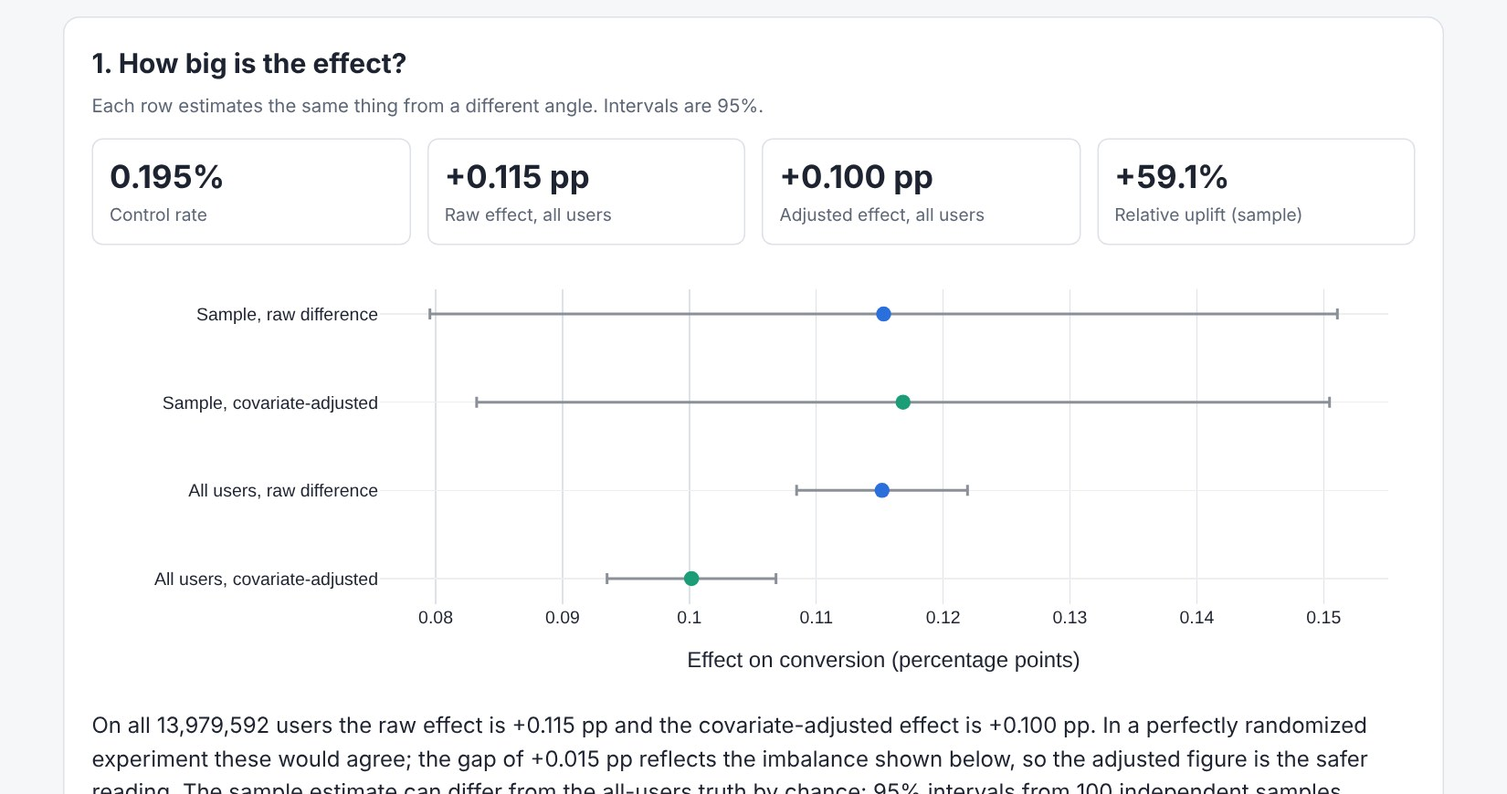
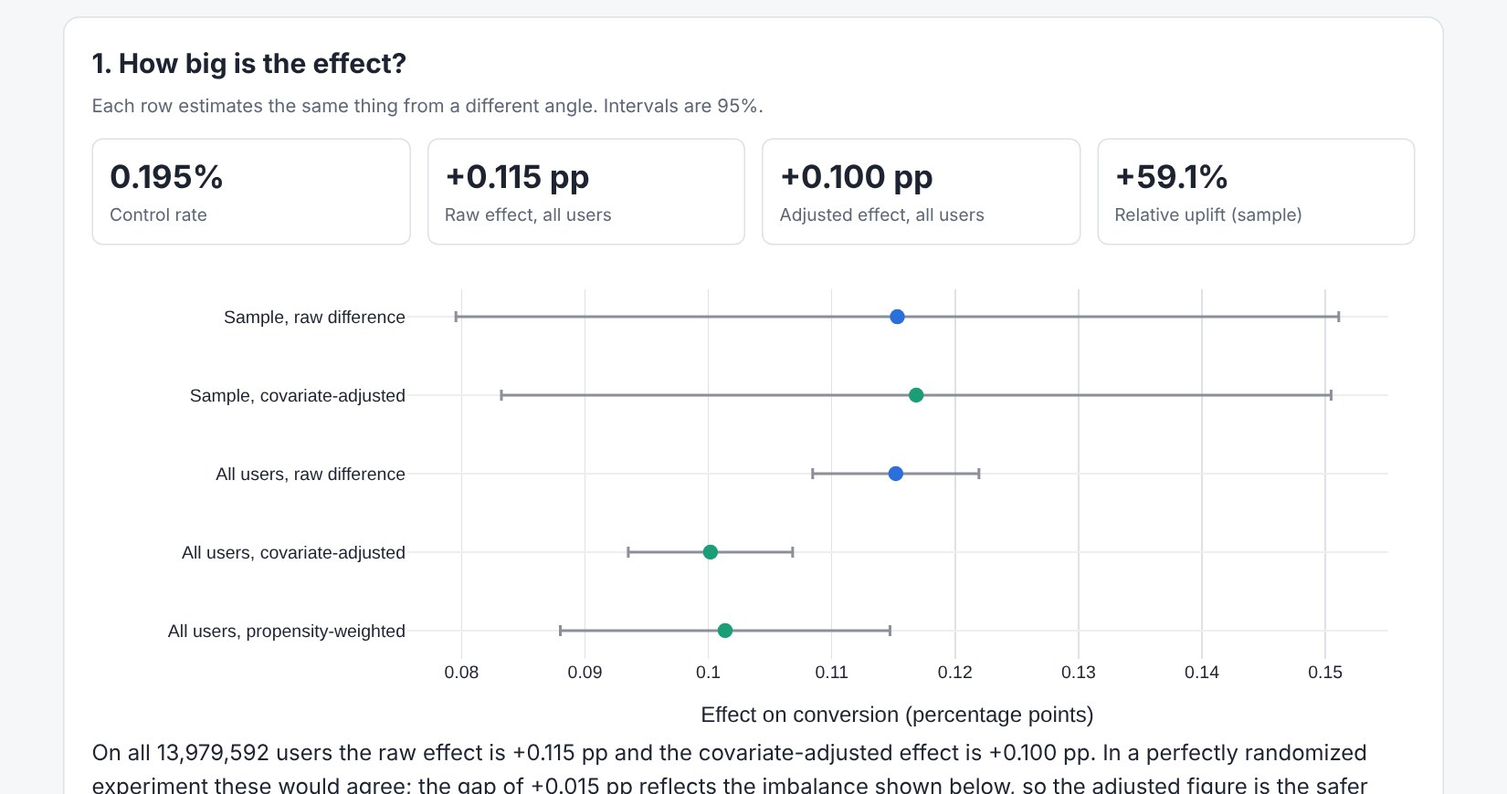
Add cross-fitted propensity weighting as a third estimate and a case study
A different method (inverse-propensity weighting with cross-fitted gradient
boosting) agrees with the regression-adjusted effect on the full data and sits
below the raw effect, corroborating the imbalance finding. Added to the
validation record, the static explorer, and a written case study on checking an
A/B test beyond the sample ratio check.

Claude-Session: https://claude.ai/code/session_01K8YYcUrop5wkFk6trXnpgL

diff --git a/demo/app.js b/demo/app.js
@@ -28,6 +28,7 @@
 
   function renderHeadline() {
     var r = o(), fu = D.full_data.unadjusted[outcome], fa = D.full_data.adjusted[outcome];
+    var fp = (D.full_data.propensity || {})[outcome];
     var z = 1.959964;
     var rows = [
       { name: "Sample, raw difference", v: r.ate.ate, lo: r.ate.ci_low, hi: r.ate.ci_high, c: token("--accent") },
@@ -35,6 +36,7 @@
       { name: "All users, raw difference", v: fu.ate, lo: fu.ci_low, hi: fu.ci_high, c: token("--accent") },
       { name: "All users, covariate-adjusted", v: fa.adjusted_ate, lo: fa.adjusted_ate - z * fa.std_error, hi: fa.adjusted_ate + z * fa.std_error, c: token("--good") }
     ];
+    if (fp) rows.push({ name: "All users, propensity-weighted", v: fp.ipw_ate, lo: fp.ci_low, hi: fp.ci_high, c: token("--good") });
     $("headline-metrics").innerHTML = metric("Control rate", pct(r.control_rate, 3)) +
       metric("Raw effect, all users", pp(fu.ate)) + metric("Adjusted effect, all users", pp(fa.adjusted_ate)) +
       metric("Relative uplift (sample)", (r.relative.relative_uplift >= 0 ? "+" : "") + (r.relative.relative_uplift * 100).toFixed(1) + "%");
@@ -45,11 +47,13 @@
       error_x: { type: "data", symmetric: false, array: rows.map(function (x) { return (x.hi - x.v) * 100; }),
         arrayminus: rows.map(function (x) { return (x.v - x.lo) * 100; }), color: token("--control") }
     }], layout({ xaxis: { title: "Effect on " + outcome + " (percentage points)", gridcolor: token("--line"), zeroline: true, zerolinecolor: token("--control") },
-      yaxis: { autorange: "reversed", automargin: true }, margin: { t: 20, r: 20, b: 50, l: 210 }, height: 300 }), CFG);
+      yaxis: { autorange: "reversed", automargin: true }, margin: { t: 20, r: 20, b: 50, l: 230 }, height: 340 }), CFG);
     var gap = fu.ate - fa.adjusted_ate;
     $("headline-text").textContent = "On all " + num(D.full_rows) + " users the raw effect is " + pp(fu.ate) + " and the covariate-adjusted effect is " +
       pp(fa.adjusted_ate) + ". In a perfectly randomized experiment these would agree; the gap of " + pp(gap) +
-      " reflects the imbalance shown below, so the adjusted figure is the safer reading. The sample estimate can differ from the all-users truth by chance: 95% intervals from 100 independent samples contained the all-users raw effect " +
+      " reflects the imbalance shown below, so the adjusted figure is the safer reading." +
+      (fp ? " A second, independent correction (cross-fitted propensity weighting) gives " + pp(fp.ipw_ate) + ", within " + Math.abs((fp.ipw_ate - fa.adjusted_ate) * 100).toFixed(2) + " pp of the adjusted estimate." : "") +
+      " The sample estimate can differ from the all-users truth by chance: 95% intervals from 100 independent samples contained the all-users raw effect " +
       pct(D.sampling_validation.ci_coverage_of_full_data_ate[outcome], 0) + " of the time.";
   }
 

diff --git a/core/propensity.py b/core/propensity.py
@@ -1,0 +1,79 @@
+from __future__ import annotations
+
+import numpy as np
+import pandas as pd
+from scipy import stats
+from sklearn.ensemble import HistGradientBoostingClassifier
+from sklearn.model_selection import KFold
+
+from core._common import check_alpha, check_outcome, resolve_source
+from core.data import FEATURES
+from core.results import PropensityResult
+
+
+def cross_fitted_propensity(
+    df: pd.DataFrame, features: list[str], n_folds: int, seed: int, max_iter: int
+) -> np.ndarray:
+    scores = np.empty(len(df))
+    x = df[features]
+    t = df["treatment"].to_numpy()
+    folds = KFold(n_splits=n_folds, shuffle=True, random_state=seed)
+    for train_idx, test_idx in folds.split(x):
+        model = HistGradientBoostingClassifier(max_iter=max_iter, random_state=seed)
+        model.fit(x.iloc[train_idx], t[train_idx])
+        scores[test_idx] = model.predict_proba(x.iloc[test_idx])[:, 1]
+    return scores
+
+
+def propensity_weighted_effect(
+    df: pd.DataFrame,
+    outcome: str = "conversion",
+    features: list[str] | None = None,
+    n_folds: int = 2,
+    clip: tuple[float, float] = (0.01, 0.99),
+    alpha: float = 0.05,
+    seed: int = 42,
+    max_iter: int = 100,
+    data_source: str | None = None,
+) -> PropensityResult:
+    check_alpha(alpha)
+    check_outcome(outcome)
+    features = list(features or FEATURES)
+    unknown = [f for f in features if f not in FEATURES]
+    if unknown:
+        raise ValueError(f"Unknown features: {unknown}")
+    if n_folds < 2 or not 0 < clip[0] < clip[1] < 1:
+        raise ValueError("n_folds must be at least 2 and clip must satisfy 0 < low < high < 1")
+    t = df["treatment"].to_numpy(dtype=float)
+    if t.min() == t.max():
+        raise ValueError("Both treatment and control rows are required")
+    y = df[outcome].to_numpy(dtype=float)
+    raw_score = cross_fitted_propensity(df, features, n_folds, seed, max_iter)
+    e = np.clip(raw_score, clip[0], clip[1])
+    w1 = t / e
+    w0 = (1 - t) / (1 - e)
+    mu1 = (w1 * y).sum() / w1.sum()
+    mu0 = (w0 * y).sum() / w0.sum()
+    psi = w1 * (y - mu1) / w1.mean() - w0 * (y - mu0) / w0.mean()
+    se = float(psi.std(ddof=1) / np.sqrt(len(y)))
+    effect = float(mu1 - mu0)
+    z_crit = stats.norm.ppf(1 - alpha / 2)
+    return PropensityResult(
+        outcome=outcome,
+        data_source=resolve_source(df, data_source),
+        n=len(y),
+        n_folds=n_folds,
+        clip_low=clip[0],
+        clip_high=clip[1],
+        share_clipped=float(((raw_score < clip[0]) | (raw_score > clip[1])).mean()),
+        propensity_min=float(raw_score.min()),
+        propensity_max=float(raw_score.max()),
+        ipw_ate=effect,
+        std_error=se,
+        ci_low=effect - z_crit * se,
+        ci_high=effect + z_crit * se,
+        confidence_level=1 - alpha,
+        unadjusted_ate=float(y[t == 1].mean() - y[t == 0].mean()),
+        effective_n_treated=float(w1.sum() ** 2 / (w1**2).sum()),
+        effective_n_control=float(w0.sum() ** 2 / (w0**2).sum()),
+    )

diff --git a/tests/test_extensions.py b/tests/test_extensions.py
@@ -337,3 +337,52 @@ def test_segment_order_puts_a_low_atom_before_the_first_interval():
     assert r.segments[0].is_atom or r.segments[-1].is_atom or any(s.is_atom for s in r.segments)
     middles = [(s.lower + s.upper) / 2 for s in r.segments]
     assert middles == sorted(middles)
+
+
+def confounded_frame(n=60_000, seed=77, effect=0.10):
+    from scipy.special import expit
+
+    rng = np.random.default_rng(seed)
+    x = rng.normal(size=(n, len(FEATURES)))
+    treatment = (rng.random(n) < expit(0.5 + 1.2 * x[:, 0])).astype(int)
+    outcome = rng.random(n) < expit(-1.5 + 0.9 * x[:, 0] + 0.5 * x[:, 1]) * 0.6 + effect * treatment
+    df = frame(treatment, np.zeros(n), outcome.astype(int))
+    df[FEATURES] = x
+    return df
+
+
+def test_propensity_weighting_removes_confounding_that_the_raw_difference_keeps():
+    from core.propensity import propensity_weighted_effect
+
+    df = confounded_frame()
+    r = propensity_weighted_effect(df, "conversion", max_iter=40)
+    assert r.unadjusted_ate > 0.15
+    assert abs(r.ipw_ate - 0.10) < abs(r.unadjusted_ate - 0.10) / 2
+    assert r.ci_low - 0.02 < 0.10 < r.ci_high + 0.02
+    assert r.share_clipped >= 0 and 0 < r.propensity_min < r.propensity_max < 1
+    assert 0 < r.effective_n_treated <= r.n and 0 < r.effective_n_control <= r.n
+    json.loads(r.to_json())
+
+
+def test_propensity_weighting_agrees_with_the_raw_effect_under_real_randomization():
+    from core.propensity import propensity_weighted_effect
+
+    df = generate_synthetic(n=60_000, seed=88, heterogeneous=False)
+    r = propensity_weighted_effect(df, "conversion", max_iter=30)
+    assert abs(r.ipw_ate - r.unadjusted_ate) < 2.5 * r.std_error
+    raw = average_treatment_effect(df, "conversion")
+    assert r.std_error == pytest.approx(raw.std_error, rel=0.25)
+
+
+def test_propensity_weighting_is_deterministic_and_validates_inputs(synthetic_df):
+    from core.propensity import propensity_weighted_effect
+
+    small = synthetic_df.head(8_000)
+    a = propensity_weighted_effect(small, "visit", max_iter=10, seed=3)
+    b = propensity_weighted_effect(small, "visit", max_iter=10, seed=3)
+    assert a.to_dict() == b.to_dict()
+    for kwargs in ({"features": ["nope"]}, {"n_folds": 1}, {"clip": (0.9, 0.1)}):
+        with pytest.raises(ValueError):
+            propensity_weighted_effect(small, "visit", **kwargs)
+    with pytest.raises(ValueError):
+        propensity_weighted_effect(small[small["treatment"] == 1], "visit")

diff --git a/core/validate.py b/core/validate.py
@@ -13,6 +13,7 @@ from core import data as data_module
 from core.cace import complier_effect
 from core.data import DATASET_ROWS, DATASET_SHA256, DTYPES, FEATURES, raw_path, sha256_of
 from core.metrics import ate_from_counts, average_treatment_effect, relative_uplift
+from core.propensity import propensity_weighted_effect
 from core.segments import uplift_by_segment
 from core.srm import sample_ratio_check
 
@@ -67,6 +68,17 @@ def full_adjusted_effects(full: pd.DataFrame, outcomes: tuple[str, ...]) -> dict
     return result
 
 
+PROPENSITY_ROWS = 4_000_000
+
+
+def full_data_propensity(full: pd.DataFrame, outcomes: tuple[str, ...], seed: int = 7) -> dict:
+    rng = np.random.default_rng(seed)
+    rows = min(PROPENSITY_ROWS, len(full))
+    subset = full.iloc[rng.permutation(len(full))[:rows]].reset_index(drop=True)
+    subset.attrs["data_source"] = "criteo"
+    return {o: propensity_weighted_effect(subset, o, seed=seed).to_dict() for o in outcomes}
+
+
 def full_data_checks(full: pd.DataFrame) -> dict:
     treated = full[full["treatment"] == 1]
     control = full[full["treatment"] == 0]
@@ -84,6 +96,7 @@ def full_data_checks(full: pd.DataFrame) -> dict:
     }
     adjusted = full_adjusted_effects(full, ("conversion", "visit"))
     cace = {o: complier_effect(full, o).to_dict() for o in ("conversion", "visit")}
+    propensity = full_data_propensity(full, ("conversion", "visit"))
     return {
         "rows": len(full),
         "card_figures": CARD_FIGURES,
@@ -93,6 +106,7 @@ def full_data_checks(full: pd.DataFrame) -> dict:
         "max_abs_smd": max(abs(v) for v in smd.values()),
         "unadjusted": unadjusted,
         "adjusted": adjusted,
+        "propensity": propensity,
         "cace": cace,
         "relative_uplift": {o: relative_uplift(full, o).to_dict() for o in ("conversion", "visit")},
         "sample_ratio": sample_ratio_check(full).to_dict(),

diff --git a/core/results.py b/core/results.py
@@ -251,3 +251,28 @@ class BalanceResult(Serializable):
     confidence_level: float
     joint_imbalance_detected: bool
     rows: list[BalanceRow] = field(default_factory=list)
+
+
+@dataclass(frozen=True)
+class PropensityResult(Serializable):
+    outcome: str
+    data_source: str
+    n: int
+    n_folds: int
+    clip_low: float
+    clip_high: float
+    share_clipped: float
+    propensity_min: float
+    propensity_max: float
+    ipw_ate: float
+    std_error: float
+    ci_low: float
+    ci_high: float
+    confidence_level: float
+    unadjusted_ate: float
+    effective_n_treated: float
+    effective_n_control: float
+    method: str = (
+        "Hajek inverse-propensity weighting with cross-fitted gradient-boosting propensities; "
+        "linearized standard error that treats the propensity as known (conservative)"
+    )

diff --git a/tests/test_scripts.py b/tests/test_scripts.py
@@ -23,8 +23,11 @@ def test_chunked_full_data_adjustment_matches_the_core_function(small, monkeypat
         assert chunked[outcome]["std_error"] == pytest.approx(direct.std_error, rel=1e-6)
 
 
-def test_full_data_checks_report_structure(small):
+def test_full_data_checks_report_structure(small, monkeypatch):
+    monkeypatch.setattr(validate, "PROPENSITY_ROWS", 6_000)
     checks = validate.full_data_checks(small)
+    assert set(checks["propensity"]) == {"conversion", "visit"}
+    assert checks["propensity"]["visit"]["n"] == 6_000
     assert checks["rows"] == len(small)
     assert checks["control_exposure_rate"] == 0
     assert set(checks["smd"]) == set(f"f{i}" for i in range(12))

diff --git a/core/export_demo.py b/core/export_demo.py
@@ -45,6 +45,7 @@ def build_demo_data(
         out["full_data"] = {
             "unadjusted": {o: full["unadjusted"][o] for o in OUTCOMES},
             "adjusted": full["adjusted"],
+            "propensity": full.get("propensity", {}),
             "cace": full["cace"],
             "max_abs_smd": full["max_abs_smd"],
         }

diff --git a/README.md b/README.md
@@ -10,7 +10,7 @@ Local-first analytics that measures the **incrementality (uplift)** of a marketi
 and a small **local LLM** that explains the results in plain business language without ever computing a number.
 Zero spend: open data, open-source tools, no cloud, no paid APIs.
 
-**[Open the interactive explorer](https://dbechrakis.github.io/uplift-analyzer/)** (static page, aggregate results only) · [Validation record](VALIDATION.md) · [Run the app locally](#quick-start)
+**[Open the interactive explorer](https://dbechrakis.github.io/uplift-analyzer/)** (static page, aggregate results only) · [Case study](docs/case-study-imperfect-randomization.md) · [Validation record](VALIDATION.md) · [Run the app locally](#quick-start)
 
 ![Overview tab](docs/screenshots/overview.png)
 
@@ -18,12 +18,12 @@ Zero spend: open data, open-source tools, no cloud, no paid APIs.
 
 | Question | Evidence | Decision supported | Boundary |
 |---|---|---|---|
-| Did the treatment cause extra visits and conversions, for whom, and is targeting worth it? | On all 13,979,592 users the raw effect is **+0.115 pp on conversion (+59%)** and **+1.03 pp on visits (+27%)**; adjusting for the features gives +0.100 and +0.773 pp. Only **3.6%** of treated users were exposed, so the effect on users who actually saw the ad is **+3.2 pp** (conversion) and **+28.7 pp** (visit). | Where to look for responders, whether blanket targeting pays, and how big the next test must be. In a scenario of 30 per conversion and 0.05 per contact, targeting everyone loses 15.7k per million users while the model's best 10.5% earns 21.7k. | The file pools several tests and was sub-sampled by Criteo, so effects are benchmark values, not forecasts. Assignment is slightly predictable from the features. Profit is a scenario with assumed value and cost. |
+| Did the treatment cause extra visits and conversions, for whom, and is targeting worth it? | On all 13,979,592 users the raw effect is **+0.115 pp on conversion (+59%)** and **+1.03 pp on visits (+27%)**; adjusting for the features gives +0.100 and +0.773 pp, and cross-fitted propensity weighting gives +0.101 and +0.736 pp. Only **3.6%** of treated users were exposed, so the effect on users who actually saw the ad is **+3.2 pp** (conversion) and **+28.7 pp** (visit). | Where to look for responders, whether blanket targeting pays, and how big the next test must be. In a scenario of 30 per conversion and 0.05 per contact, targeting everyone loses 15.7k per million users while the model's best 10.5% earns 21.7k. | The file pools several tests and was sub-sampled by Criteo, so effects are benchmark values, not forecasts. Assignment is slightly predictable from the features. Profit is a scenario with assumed value and cost. |
 
 ## Why this project is different
 
 * **Statistics that check themselves.** Sample ratio check, covariate balance with a classifier-based joint test, regression adjustment, Benjamini-Hochberg across segments, delta-method intervals, bootstrap intervals on Qini. [VALIDATION.md](VALIDATION.md) records each check, including the defects verification found and the fixes.
-* **A real finding about the data.** The treatment is slightly predictable from the features (AUC 0.508, interval excludes 0.5) even though the sample ratio check passes, and the raw and adjusted effects disagree on the full data. The app shows both and says so.
+* **A real finding about the data.** The treatment is slightly predictable from the features (AUC 0.508, interval excludes 0.5) even though the sample ratio check passes, and the raw and adjusted effects disagree on the full data. Two independent corrections (regression adjustment and propensity weighting) agree and both sit below the raw effect. The app shows the raw and adjusted estimates and says so.
 * **Intent-to-treat versus exposed.** Because only 3.6% of treated users saw the ad, the headline effect hides a 28.7 pp effect on visits among exposed users. A naive "exposed versus control" comparison would overstate it (+38.6 pp on the 500k sample); the instrumental-variable estimate does not.
 * **From effect to decision.** Qini curve, four uplift learners compared with paired bootstrap, a profit-maximizing targeting share, and a sample-size and minimum-detectable-effect planner.
 * **The LLM never computes a number.** It chooses one of eleven validated functions through tool calling, the code computes, and the UI always shows the function called and its raw JSON. A number-grounding check flags any figure in an explanation that is not in a tool result.
@@ -38,9 +38,10 @@ All-users figures come from a streaming pass over the full file; model-based res
 | Control to treated rate | 0.194% to 0.309% | 3.82% to 4.85% |
 | Raw effect (95% CI) | +0.115 pp (0.109 to 0.122) | +1.034 pp (1.006 to 1.063) |
 | Covariate-adjusted effect | +0.100 pp | +0.773 pp |
+| Propensity-weighted effect (95% CI, 4M-user subsample) | +0.101 pp (0.088 to 0.115) | +0.736 pp (0.679 to 0.792) |
 | Effect on exposed users (CACE, 95% CI) | +3.20 pp (3.01 to 3.38) | +28.7 pp (27.9 to 29.5) |
 
-**1. The experiment is nearly, not perfectly, randomized.** 85.00% of users are treated, as designed (p = 0.999), and no standardized difference exceeds 0.05. But a classifier predicts treatment from the features with AUC 0.5078 (95% CI 0.5041 to 0.5120), and the adjusted visit effect is 25% smaller than the raw one. Read the adjusted estimate next to the raw one.
+**1. The experiment is nearly, not perfectly, randomized.** 85.00% of users are treated, as designed (p = 0.999), and no standardized difference exceeds 0.05. But a classifier predicts treatment from the features with AUC 0.5078 (95% CI 0.5041 to 0.5120), and the adjusted visit effect is 25% smaller than the raw one. Cross-fitted propensity weighting, a different method, lands within 0.04 pp of the adjusted visit estimate, so the gap is not an artifact of one model. Read the corrected estimates next to the raw one.
 
 **2. Most of the effect lives in a few users.** On seven of the twelve features, 82% to 99% of users share a single default value; where that group shows a significant effect it is small (conversion +0.05 to +0.10 pp). Small groups with non-default values show much larger effects (up to about +5 pp on conversion in groups of a few thousand users, FDR-adjusted).
 
@@ -124,6 +125,7 @@ Open http://127.0.0.1:8501. The containers cannot reach the internet, so fetch t
 |---|---|
 | `average_treatment_effect` | rate difference, 95% CI (unpooled Wald), two-proportion z-test p-value (pooled) |
 | `regression_adjusted_effect` | Lin (2013) interacted OLS with robust errors, and the variance change versus the raw estimate |
+| `propensity_weighted_effect` | cross-fitted gradient-boosting propensities, Hajek inverse-propensity weighting, overlap diagnostics, linearized standard error |
 | `relative_uplift` | lift versus control with delta-method CI on the log risk ratio |
 | `complier_effect` | intent-to-treat, effect on exposed users (Wald IV, delta-method CI), complier and never-taker rates, naive comparison |
 | `covariate_balance` | standardized differences per feature and a classifier AUC with bootstrap CI |

diff --git a/docs/case-study-imperfect-randomization.md b/docs/case-study-imperfect-randomization.md
@@ -1,0 +1,54 @@
+# A randomized experiment that passed the sample ratio check and was still biased
+
+*What 14 million users taught me about checking an A/B test beyond the first check.*
+
+Every A/B testing checklist starts with the sample ratio check (SRM): did the split between treatment and control match the design? I ran it on the Criteo uplift dataset, 13,979,592 users from randomized incrementality tests. The designed treated share is 85%. The observed share was 85.00% (p = 0.999). Textbook clean.
+
+I almost moved on. Instead I asked a second question: **if assignment is truly random, the features should tell you nothing about who got treated.** So I trained a classifier to predict treatment from the 12 user features (on a 500,000-user random sample, scored on held-out users). Under perfect randomization its AUC is 0.5. Mine was 0.508, with a 95% bootstrap interval of 0.504 to 0.512. That is a small number, and it excludes 0.5.
+
+## Why a small imbalance matters
+
+The standard rule of thumb says a standardized mean difference below 0.1 is fine. The largest here was 0.049, so by the rule of thumb the experiment is balanced. But with this many users, even tiny shifts are measurable, and what matters is whether the shifted features also drive the outcome. They do.
+
+On all 14 million users, the raw difference in visit rate between treated and control is **+1.03 percentage points**. After adjusting for the features it is **+0.77**, a quarter smaller. For conversions the raw effect is +0.115 pp and the adjusted one +0.100 pp.
+
+One adjusted number could be an artifact of one model, so I used a second, different method: inverse-propensity weighting with cross-fitted gradient-boosting propensities. It gives **+0.74 pp** (95% CI 0.68 to 0.79) on visits and +0.101 pp on conversions. Two independent corrections land within 0.04 pp of each other, and both sit well below the raw estimate.
+
+My hypothesis, which I cannot verify from the public file, comes from the dataset documentation: it pools data from several incrementality tests. If treatment probability differs by test, and tests differ in who they reach, the raw comparison mixes experiments. The sample ratio check cannot see this because the overall split is exactly as designed.
+
+## What I would check next time
+
+1. **Sample ratio.** Still the first check.
+2. **Covariate balance, in two ways.** Standardized differences per feature, and a classifier predicting treatment from the features, with a confidence interval on its AUC. The classifier catches combinations of small shifts that no single feature shows.
+3. **Triangulate.** Compare the raw effect with a regression-adjusted one and a propensity-weighted one. If they agree, report that. If they disagree, investigate assignment before reporting a number.
+
+## A second lesson: who actually saw the ad
+
+Only 3.6% of treated users were ever exposed to the ad. The effect of being assigned to treatment, +1.03 pp on visits, averages over the 96% who could not respond. For users who were actually exposed, an instrumental-variable estimate gives **+28.7 pp**. Comparing exposed treated users with all control users instead would give a much larger number, because the people who get exposed differ from the rest. On my 500k sample that naive contrast was +38.6 pp. Intent-to-treat and effect-on-exposed answer different questions, and mixing them up is easy.
+
+## Limits
+
+- This is a benchmark file, pooled and sub-sampled by Criteo. Its effect sizes are not forecasts for any real campaign.
+- Adjustment and weighting correct only for observed features. Imbalance on unobserved variables would remain.
+- The exposed-user estimate assumes the ad works only through being seen, which the data cannot test.
+- The cause of the imbalance is my hypothesis, not a finding.
+
+Everything above is reproducible. The code, the tests, the validation record that includes these numbers and the defects I found along the way, and an interactive explorer are in the repository: https://github.com/dbechrakis/uplift-analyzer (explorer: https://dbechrakis.github.io/uplift-analyzer/).
+
+*Data: Criteo Uplift Prediction dataset, CC BY-NC-SA 4.0. Diemert, Betlei, Renaudin, Amini. A Large Scale Benchmark for Uplift Modeling. AdKDD 2018.*
+
+---
+
+## Short LinkedIn version
+
+My A/B test passed the sample ratio check. It was still biased.
+
+On 14M users from Criteo's randomized uplift data, treatment share was 85.00% as designed (p = 0.999). But a classifier could predict treatment from user features (AUC 0.508 on a 500k sample, interval excludes 0.5), which a truly random assignment would not allow.
+
+It changed the answer: the raw effect on visits was +1.03 pp, about a third higher than the +0.77 pp I got after regression adjustment. Propensity weighting, a different method, gave +0.74 pp.
+
+Three checks I now run: sample ratio, covariate balance (including a classifier AUC), and raw versus adjusted versus weighted estimates.
+
+Bonus: only 3.6% of treated users saw the ad, so the effect on those who did was +28.7 pp, not +1.03.
+
+Code, tests and an interactive explorer: github.com/dbechrakis/uplift-analyzer

diff --git a/VALIDATION.md b/VALIDATION.md
@@ -28,6 +28,7 @@ All 13,979,592 users, streamed in chunks:
 - Standardized mean differences between treated and control are small but not zero: largest 0.049 (`f3`), then 0.040 (`f6`) and 0.031 (`f5`) on all users. None exceeds the common 0.1 rule of thumb.
 - On the 500k sample a gradient-boosting classifier predicts treatment from the 12 features with held-out AUC 0.5078 (bootstrap 95% CI 0.5041 to 0.5120). Perfect randomization would give 0.5, so the interval rules it out.
 - Consequence: the raw and covariate-adjusted effects disagree on all users (visit +1.034 vs +0.773 pp, conversion +0.115 vs +0.100 pp). Both are consistent under perfect randomization, so the gap points to assignment that depends on the features. This fits Criteo's description of the file as several pooled tests, which would give users different treatment probabilities.
+- A third, independent method agrees. Cross-fitted propensity weighting (gradient-boosting propensities fitted on one half of a 4,000,000-user random subset and applied to the other, weights stabilized with the Hajek estimator, no weight clipped, propensities between 0.585 and 0.972) gives +0.736 pp on visits (95% CI 0.679 to 0.792) and +0.101 pp on conversions (0.088 to 0.115). It lands within 0.04 pp of the regression-adjusted visit estimate and within 0.001 pp for conversion, and both sit below the raw +1.034 and +0.115 pp. Its standard error treats the propensity as known, which is conservative. In tests it recovers a planted effect that a raw difference overstates, and it agrees with the raw difference under genuine randomization.
 - The app and demo therefore show the adjusted estimate next to the raw one, and the explanations no longer call the raw difference simply causal. A passing sample ratio check does not detect this kind of problem.
 
 ## Correctness of the statistics code — 2026-10-28
